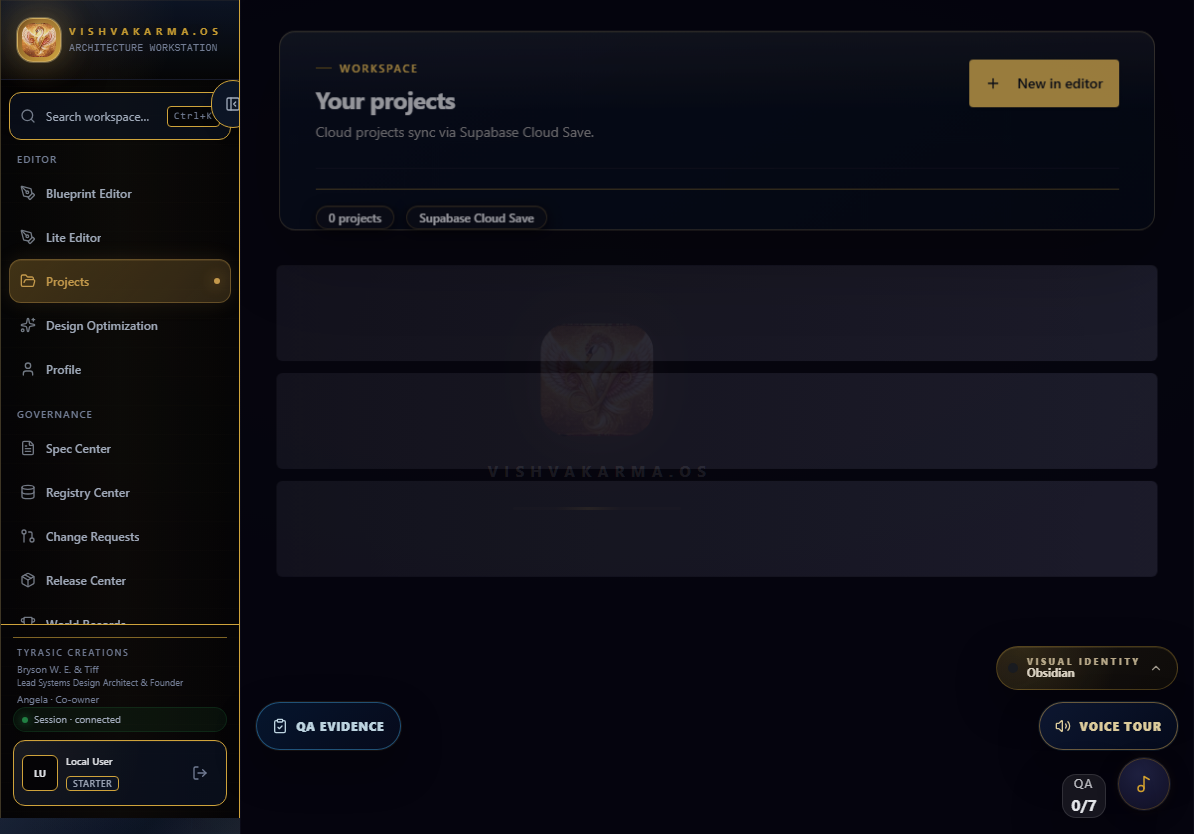
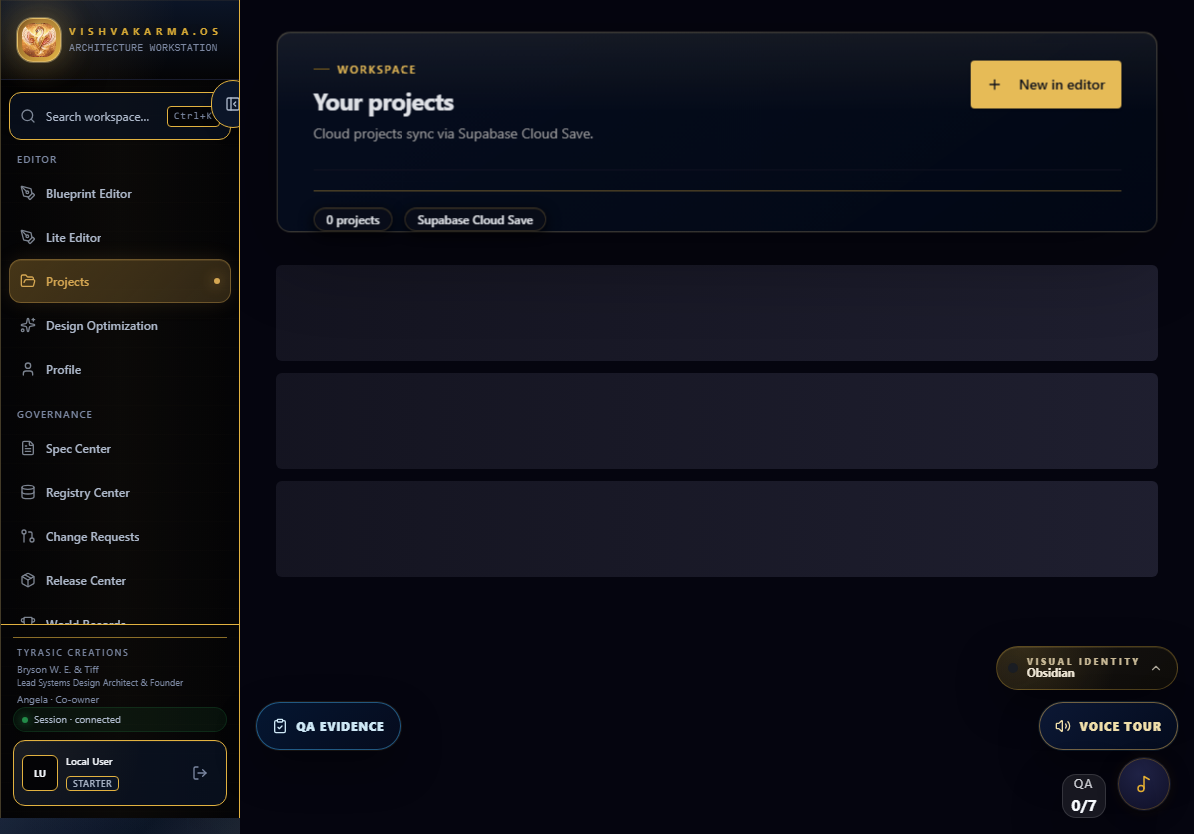
feat(ui): unify screen layouts, glassmorphic card elevation, and refresh evidence pack

Changed region(s): [[0.2479, 0.2182, 0.9296, 0.2806], [0.2479, 0.0624, 0.4958, 0.1871], [0.8057, 0.0624, 0.9606, 0.1559]]

diff --git a/src/styles/vish-ui-polish.css b/src/styles/vish-ui-polish.css
@@ -1164,5 +1164,104 @@ button:not(:disabled):active,
   animation: vish-pulse-glow 2.4s infinite ease-in-out;
 }
 
+/* --------------------------------------------------------------------------
+   33. UNIFIED SCREEN LAYOUTS, GLASSMORPHIC CARDS & TABLE HARDENING
+   -------------------------------------------------------------------------- */
+
+/* Unified Section Stack & Spacing */
+.vish-section-stack {
+  display: flex;
+  flex-direction: column;
+  gap: var(--vish-space-6, 1.5rem);
+  width: 100%;
+}
+
+/* Glassmorphic Panel & Card Refinement */
+.vish-crafted-card,
+.vish-workspace-panel,
+.vish-card,
+.gov-content-area .vish-card {
+  background: rgba(10, 10, 14, 0.72) !important;
+  backdrop-filter: blur(24px) saturate(1.15) !important;
+  -webkit-backdrop-filter: blur(24px) saturate(1.15) !important;
+  border: 1px solid rgba(255, 255, 255, 0.08) !important;
+  border-radius: var(--vish-radius-lg, 0.875rem) !important;
+  box-shadow: var(--vish-shadow-md, 0 4px 14px -2px rgba(0, 0, 0, 0.28)) !important;
+  transition: border-color 0.2s ease, box-shadow 0.2s ease, transform 0.2s var(--vish-ease-spring, ease) !important;
+}
+
+.vish-crafted-card:hover,
+.vish-workspace-panel:hover,
+.vish-card:hover {
+  border-color: rgba(212, 175, 55, 0.3) !important;
+  box-shadow: 0 8px 30px rgba(0, 0, 0, 0.45), 0 0 16px rgba(212, 175, 55, 0.08) !important;
+}
+
+/* Workspace Header Hardening */
+.vish-workspace-header {
+  position: relative;
+  background: rgba(5, 5, 7, 0.8) !important;
+  backdrop-filter: blur(32px) !important;
+  -webkit-backdrop-filter: blur(32px) !important;
+  border: 1px solid rgba(212, 175, 55, 0.15) !important;
+  box-shadow: 0 12px 40px rgba(0, 0, 0, 0.5) !important;
+}
+
+.vish-gov-page-header {
+  background: linear-gradient(180deg, rgba(212, 175, 55, 0.06) 0%, rgba(5, 5, 7, 0.85) 100%) !important;
+}
+
+/* Stat Pill Polish */
+.vish-stat-pill,
+.gov-stat-pill {
+  background: rgba(255, 255, 255, 0.04) !important;
+  border: 1px solid rgba(212, 175, 55, 0.15) !important;
+  border-radius: var(--vish-radius-full, 9999px) !important;
+  padding: 0.35rem 0.85rem !important;
+  font-size: var(--vish-text-xs, 0.6875rem) !important;
+  transition: all 0.2s ease !important;
+}
+
+.vish-stat-pill:hover,
+.gov-stat-pill:hover {
+  background: rgba(212, 175, 55, 0.08) !important;
+  border-color: rgba(212, 175, 55, 0.35) !important;
+  box-shadow: 0 0 12px rgba(212, 175, 55, 0.15) !important;
+}
+
+/* Table Surface Elevation */
+table {
+  width: 100%;
+  border-collapse: separate;
+  border-spacing: 0;
+}
+
+th {
+  background: rgba(255, 255, 255, 0.03);
+  color: var(--vish-text-dim, rgba(255, 255, 255, 0.6));
+  font-size: var(--vish-text-xs, 0.6875rem);
+  font-weight: 600;
+  text-transform: uppercase;
+  letter-spacing: 0.06em;
+  padding: 0.75rem 1rem;
+  border-bottom: 1px solid rgba(255, 255, 255, 0.08);
+}
+
+td {
+  padding: 0.875rem 1rem;
+  border-bottom: 1px solid rgba(255, 255, 255, 0.04);
+  font-size: var(--vish-text-sm, 0.8125rem);
+  transition: background-color 0.15s ease;
+}
+
+tbody tr:hover td {
+  background: rgba(212, 175, 55, 0.035);
+}
+
+tbody tr:last-child td {
+  border-bottom: none;
+}
+
+
 
 

diff --git a/VISHVAKARMA_OS_RELEASE_EVIDENCE.md b/VISHVAKARMA_OS_RELEASE_EVIDENCE.md
@@ -3,8 +3,8 @@
 **Product Name:** Vishvakarma.OS  
 **Product Version:** v1.5.0  
 **Release Date:** 2026-08-07  
-**Generation Timestamp:** `2026-08-07T16:38:51.375Z`  
-**Git Commit SHA:** `6bb210d0b64612c12cbebe8675cf28895a97585b`  
+**Generation Timestamp:** `2026-08-07T16:50:42.144Z`  
+**Git Commit SHA:** `640c895e16e05641cb8573f520c9a0c0d0ae34d4`  
 **Git Branch:** `assistant/end-to-end-gates-20260709`  
 **Repository Origin:** `https://github.com/brysonandtiff-ops/vishvakarma-os.git`  
 **Production Origin URL:** `https://vishvakarma-os.app` (Supabase Backend)  
@@ -46,25 +46,25 @@ All 19 screenshots below were captured from the compiled production build runnin
 
 | # | Screen / Surface | Image Artifact Link | File Size | Viewport | Status |
 |---|---|---|---|---|---|
-| 01 | **Landing page** | [`sell-closeout/01-landing-page.png`](./sell-closeout/01-landing-page.png) | 980.52 KB | 1194 × 834 | **PASS** |
-| 02 | **Auth page** | [`sell-closeout/02-auth-page.png`](./sell-closeout/02-auth-page.png) | 255.43 KB | 1194 × 834 | **PASS** |
-| 03 | **Projects page** | [`sell-closeout/03-projects-page.png`](./sell-closeout/03-projects-page.png) | 319.46 KB | 1194 × 834 | **PASS** |
-| 04 | **Editor 2d canvas** | [`sell-closeout/04-editor-2d-canvas.png`](./sell-closeout/04-editor-2d-canvas.png) | 579.12 KB | 1194 × 834 | **PASS** |
-| 05 | **Editor 3d viewport** | [`sell-closeout/05-editor-3d-viewport.png`](./sell-closeout/05-editor-3d-viewport.png) | 588.39 KB | 1194 × 834 | **PASS** |
-| 06 | **Export dialog** | [`sell-closeout/06-export-dialog.png`](./sell-closeout/06-export-dialog.png) | 134.17 KB | 1194 × 834 | **PASS** |
-| 07 | **Editor lite** | [`sell-closeout/07-editor-lite.png`](./sell-closeout/07-editor-lite.png) | 634.93 KB | 1194 × 834 | **PASS** |
-| 08 | **Optimization page** | [`sell-closeout/08-optimization-page.png`](./sell-closeout/08-optimization-page.png) | 357.64 KB | 1194 × 834 | **PASS** |
-| 09 | **Profile page** | [`sell-closeout/09-profile-page.png`](./sell-closeout/09-profile-page.png) | 335.09 KB | 1194 × 834 | **PASS** |
-| 10 | **Pricing page** | [`sell-closeout/10-pricing-page.png`](./sell-closeout/10-pricing-page.png) | 987.60 KB | 1194 × 834 | **PASS** |
-| 11 | **Features page** | [`sell-closeout/11-features-page.png`](./sell-closeout/11-features-page.png) | 254.44 KB | 1194 × 834 | **PASS** |
-| 12 | **Spec center** | [`sell-closeout/12-spec-center.png`](./sell-closeout/12-spec-center.png) | 254.73 KB | 1194 × 834 | **PASS** |
-| 13 | **Registry page** | [`sell-closeout/13-registry-page.png`](./sell-closeout/13-registry-page.png) | 298.47 KB | 1194 × 834 | **PASS** |
-| 14 | **Change requests** | [`sell-closeout/14-change-requests.png`](./sell-closeout/14-change-requests.png) | 343.62 KB | 1194 × 834 | **PASS** |
-| 15 | **Releases page** | [`sell-closeout/15-releases-page.png`](./sell-closeout/15-releases-page.png) | 369.70 KB | 1194 × 834 | **PASS** |
-| 16 | **World records** | [`sell-closeout/16-world-records.png`](./sell-closeout/16-world-records.png) | 429.41 KB | 1194 × 834 | **PASS** |
-| 17 | **Audit log** | [`sell-closeout/17-audit-log.png`](./sell-closeout/17-audit-log.png) | 299.96 KB | 1194 × 834 | **PASS** |
-| 18 | **Cast viewer** | [`sell-closeout/18-cast-viewer.png`](./sell-closeout/18-cast-viewer.png) | 471.79 KB | 1194 × 834 | **PASS** |
-| 19 | **3d room** | [`sell-closeout/19-3d-room.png`](./sell-closeout/19-3d-room.png) | 485.23 KB | 1194 × 834 | **PASS** |
+| 01 | **Landing page** | [`sell-closeout/01-landing-page.png`](./sell-closeout/01-landing-page.png) | 989.93 KB | 1194 × 834 | **PASS** |
+| 02 | **Auth page** | [`sell-closeout/02-auth-page.png`](./sell-closeout/02-auth-page.png) | 254.54 KB | 1194 × 834 | **PASS** |
+| 03 | **Projects page** | [`sell-closeout/03-projects-page.png`](./sell-closeout/03-projects-page.png) | 281.20 KB | 1194 × 834 | **PASS** |
+| 04 | **Editor 2d canvas** | [`sell-closeout/04-editor-2d-canvas.png`](./sell-closeout/04-editor-2d-canvas.png) | 583.98 KB | 1194 × 834 | **PASS** |
+| 05 | **Editor 3d viewport** | [`sell-closeout/05-editor-3d-viewport.png`](./sell-closeout/05-editor-3d-viewport.png) | 597.21 KB | 1194 × 834 | **PASS** |
+| 06 | **Export dialog** | [`sell-closeout/06-export-dialog.png`](./sell-closeout/06-export-dialog.png) | 132.07 KB | 1194 × 834 | **PASS** |
+| 07 | **Editor lite** | [`sell-closeout/07-editor-lite.png`](./sell-closeout/07-editor-lite.png) | 634.97 KB | 1194 × 834 | **PASS** |
+| 08 | **Optimization page** | [`sell-closeout/08-optimization-page.png`](./sell-closeout/08-optimization-page.png) | 344.20 KB | 1194 × 834 | **PASS** |
+| 09 | **Profile page** | [`sell-closeout/09-profile-page.png`](./sell-closeout/09-profile-page.png) | 329.17 KB | 1194 × 834 | **PASS** |
+| 10 | **Pricing page** | [`sell-closeout/10-pricing-page.png`](./sell-closeout/10-pricing-page.png) | 998.05 KB | 1194 × 834 | **PASS** |
+| 11 | **Features page** | [`sell-closeout/11-features-page.png`](./sell-closeout/11-features-page.png) | 1.03 MB | 1194 × 834 | **PASS** |
+| 12 | **Spec center** | [`sell-closeout/12-spec-center.png`](./sell-closeout/12-spec-center.png) | 255.32 KB | 1194 × 834 | **PASS** |
+| 13 | **Registry page** | [`sell-closeout/13-registry-page.png`](./sell-closeout/13-registry-page.png) | 390.64 KB | 1194 × 834 | **PASS** |
+| 14 | **Change requests** | [`sell-closeout/14-change-requests.png`](./sell-closeout/14-change-requests.png) | 324.91 KB | 1194 × 834 | **PASS** |
+| 15 | **Releases page** | [`sell-closeout/15-releases-page.png`](./sell-closeout/15-releases-page.png) | 439.17 KB | 1194 × 834 | **PASS** |
+| 16 | **World records** | [`sell-closeout/16-world-records.png`](./sell-closeout/16-world-records.png) | 449.63 KB | 1194 × 834 | **PASS** |
+| 17 | **Audit log** | [`sell-closeout/17-audit-log.png`](./sell-closeout/17-audit-log.png) | 365.89 KB | 1194 × 834 | **PASS** |
+| 18 | **Cast viewer** | [`sell-closeout/18-cast-viewer.png`](./sell-closeout/18-cast-viewer.png) | 440.19 KB | 1194 × 834 | **PASS** |
+| 19 | **3d room** | [`sell-closeout/19-3d-room.png`](./sell-closeout/19-3d-room.png) | 379.21 KB | 1194 × 834 | **PASS** |
 
 ---
 
@@ -133,5 +133,5 @@ npx wrangler pages deploy dist --project-name=vishvakarma-os
 ## 🔒 Verification Signature & Evidence Hash
 
 * **Evidence Report Generated By:** Automated Release Evidence Pipeline (`scripts/generate-release-evidence-doc.mjs`)
-* **Git Commit SHA:** `6bb210d0b64612c12cbebe8675cf28895a97585b`
+* **Git Commit SHA:** `640c895e16e05641cb8573f520c9a0c0d0ae34d4`
 * **Release Verdict:** **VERIFIED, REPRODUCIBLE, BUYER-READY RELEASE**
